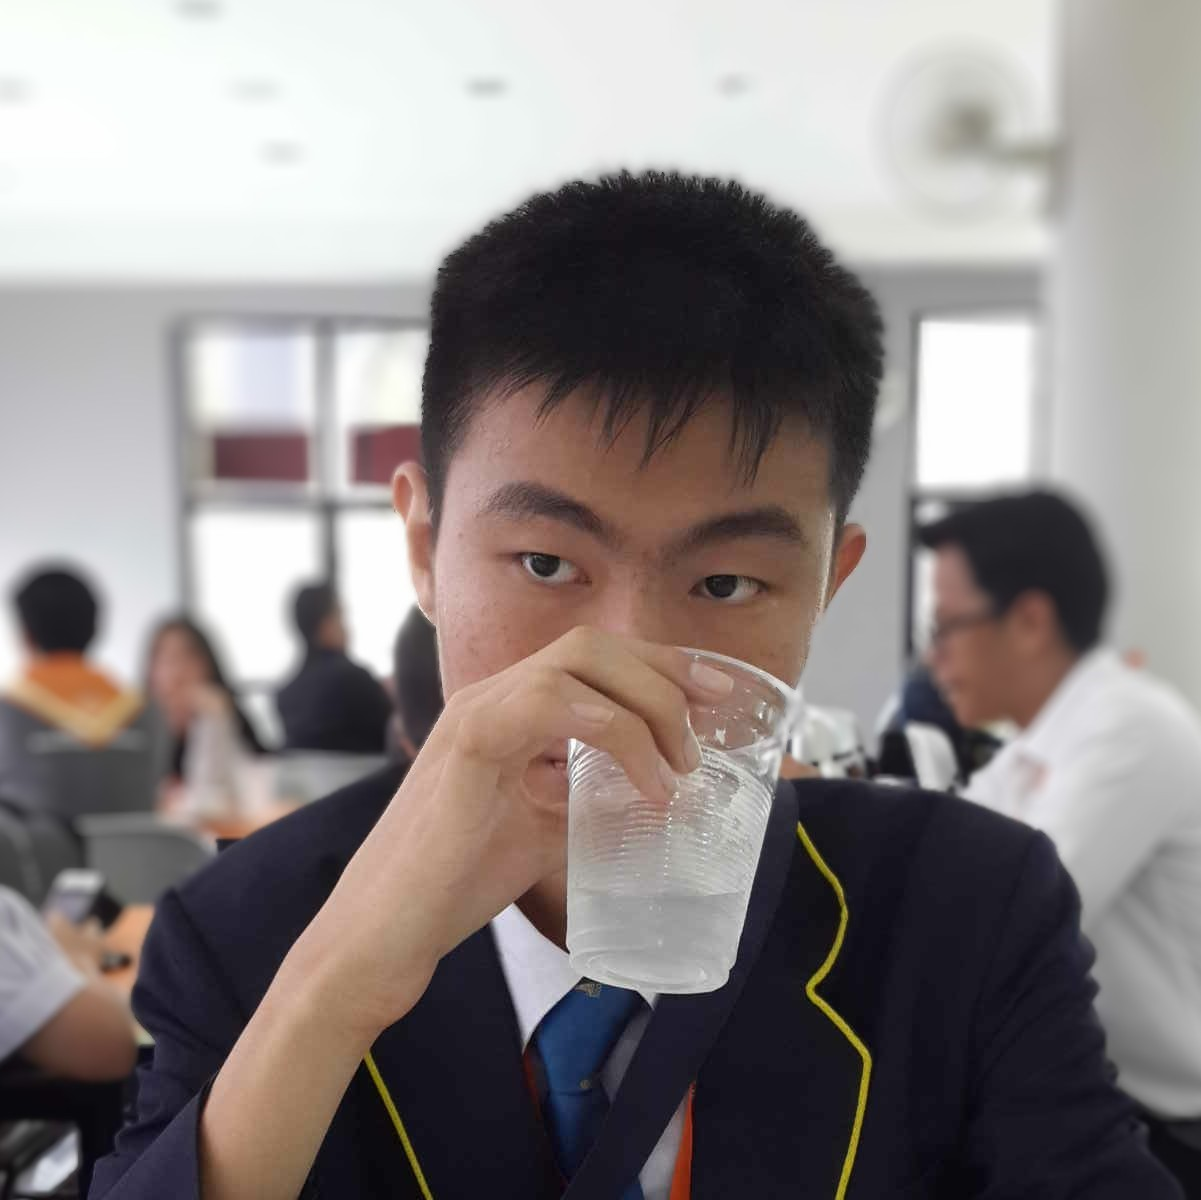
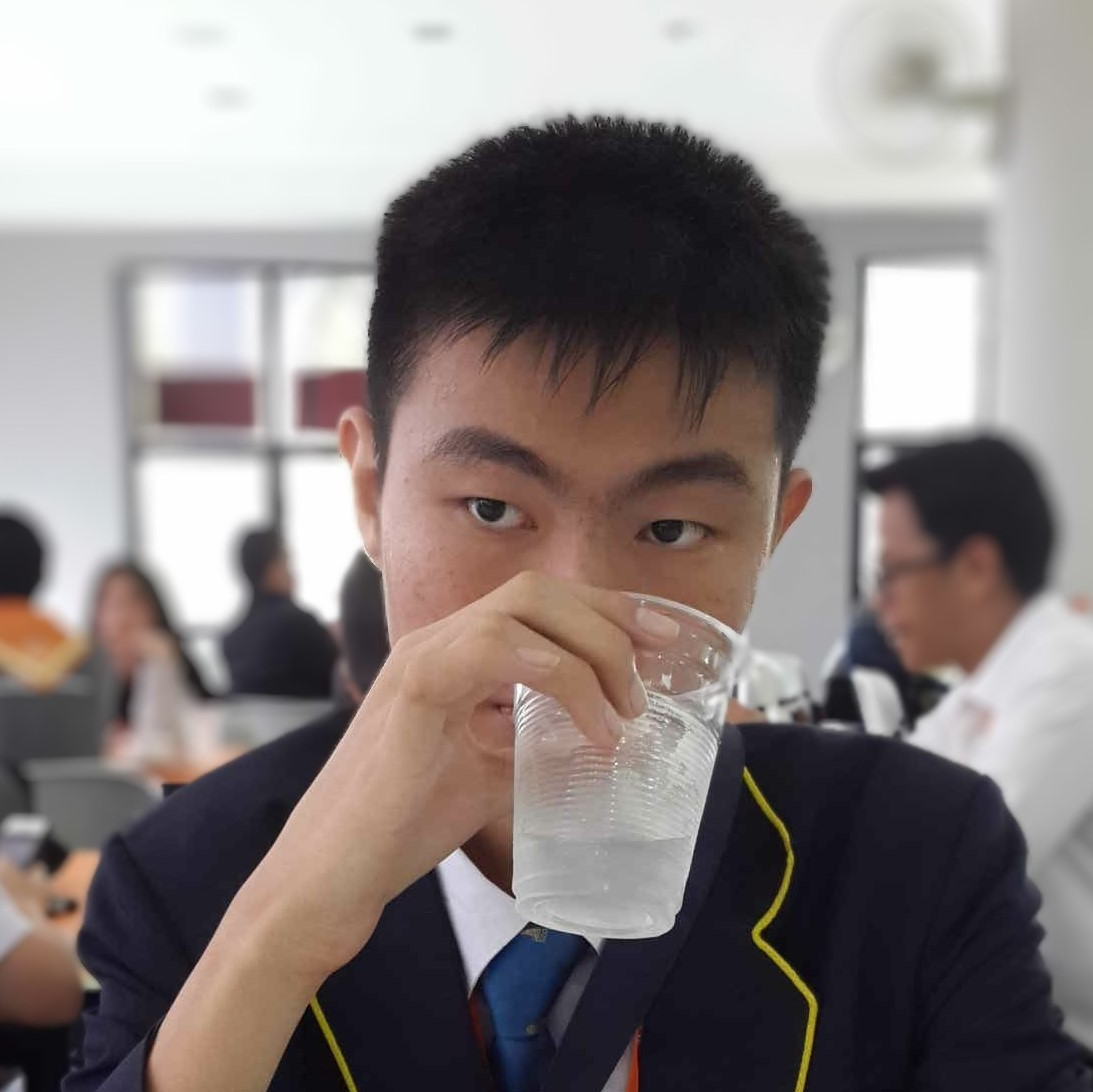
the devil is in the details

diff --git a/committee/index.css b/committee/index.css
@@ -233,6 +233,7 @@ a.pill-button:hover .pill-text,button.pill-button:hover .pill-text {
   font-family: "SFPro Semibold";
   margin-top: 10px;
   font-size: 26px;
+  color: #2411b5;
 }
 
 .item-title-text{
@@ -240,6 +241,7 @@ a.pill-button:hover .pill-text,button.pill-button:hover .pill-text {
   font-family: "SFPro Regular";
   margin-top: 10px;
   font-size: 18px;
+  color:#6f6f6f;
 }
 
 .list-title {
@@ -250,6 +252,7 @@ a.pill-button:hover .pill-text,button.pill-button:hover .pill-text {
 .list-desc {
   font-family: "SFPro Regular";
   font-size: 2rem;
+
 }
 
 .about {

diff --git a/committee/index.html b/committee/index.html
@@ -51,7 +51,7 @@
                   </div>
                   <div class="grid-item">
                     <div class="grid-item">
-                      <img src="committee_photo/tzi-hwee.jpg" class="image-holder"></img>
+                      <img src="committee_photo/tzi-hwee2.png" class="image-holder"></img>
                       <div class="item-name-text">Chew Tzi Hwee</div>
                       <div class="item-title-text">President</div>
                     </div>
